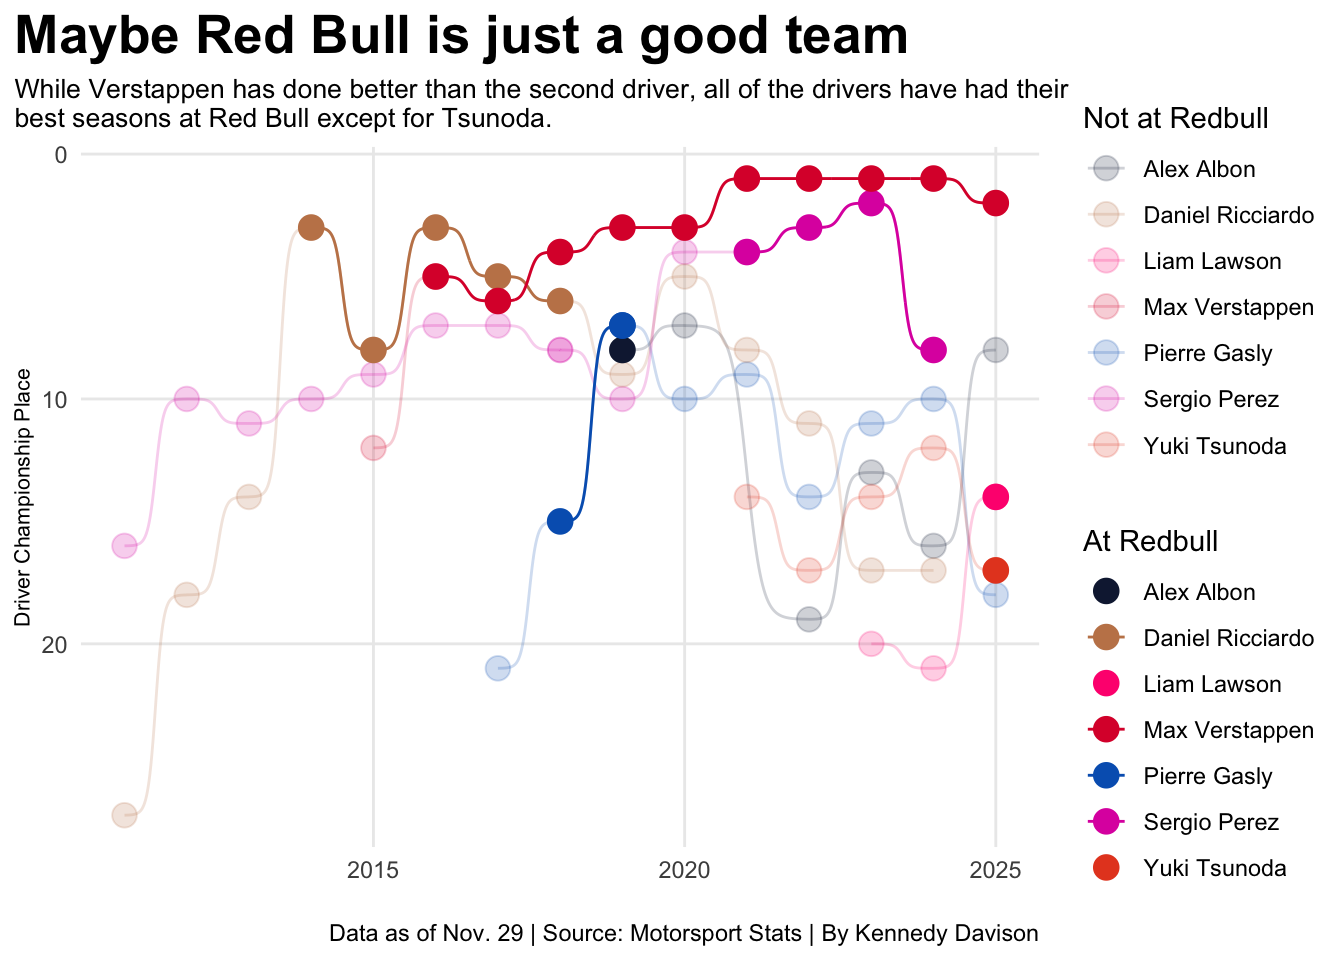
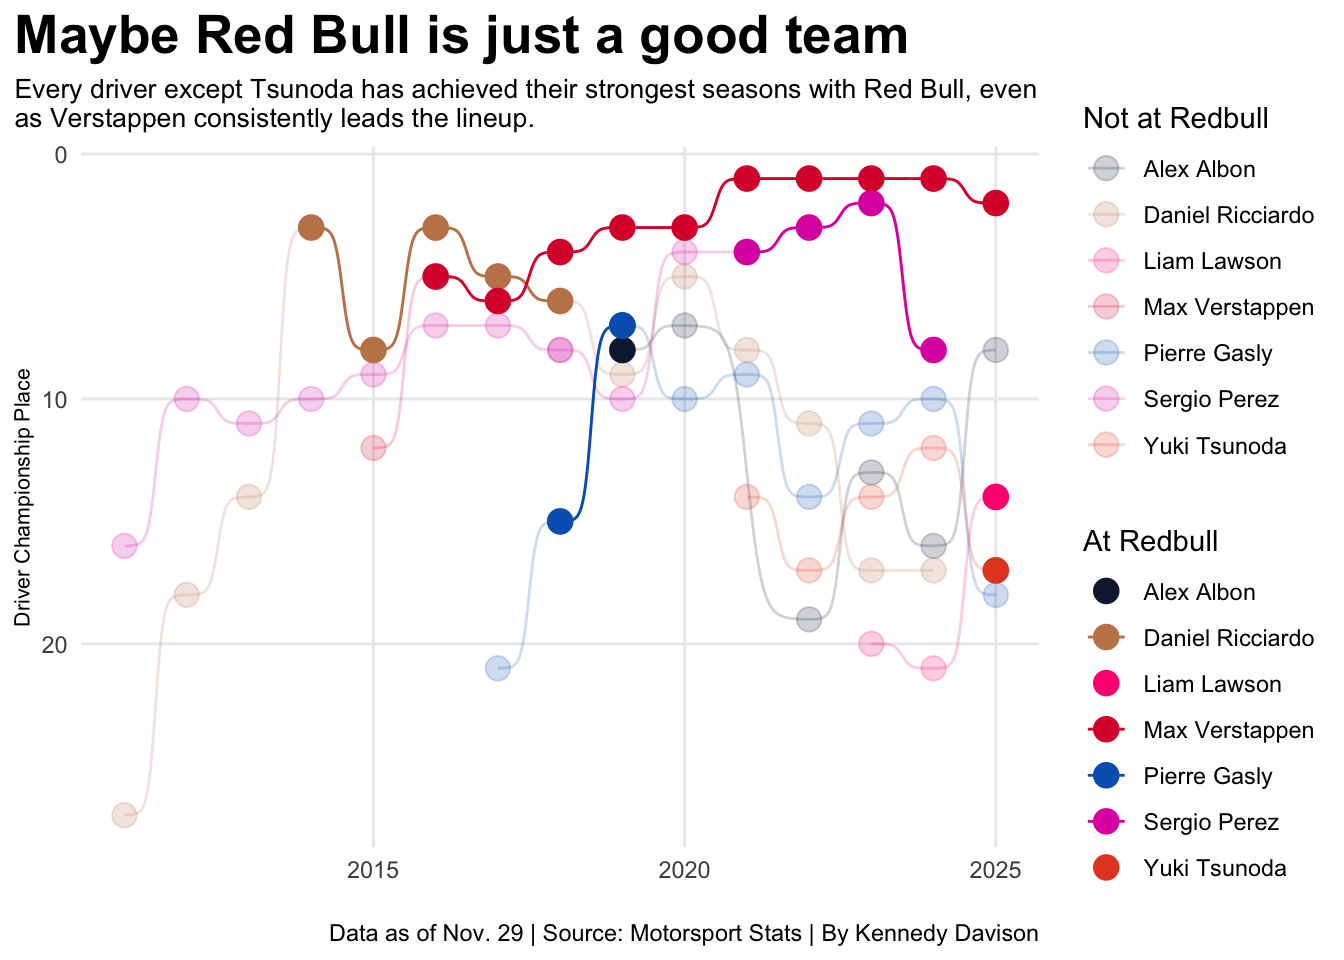
blog

Changed region(s): [[0.0, 0.0625, 0.7812, 0.1562]]

diff --git a/posts/red-bull-curse/index.html b/posts/red-bull-curse/index.html
@@ -426,7 +426,7 @@ pre > code.sourceCode > span > a:first-child::before { text-decoration: underlin
 <span id="cb3-66"><a href="#cb3-66" aria-hidden="true" tabindex="-1"></a>    <span class="at">x=</span><span class="st">""</span>, </span>
 <span id="cb3-67"><a href="#cb3-67" aria-hidden="true" tabindex="-1"></a>    <span class="at">y=</span><span class="st">"Driver Championship Place"</span>, </span>
 <span id="cb3-68"><a href="#cb3-68" aria-hidden="true" tabindex="-1"></a>    <span class="at">title=</span><span class="st">"Maybe Red Bull is just a good team"</span>, </span>
-<span id="cb3-69"><a href="#cb3-69" aria-hidden="true" tabindex="-1"></a>    <span class="at">subtitle=</span><span class="st">"While Verstappen has done better than the second driver, all of the drivers have had their </span><span class="sc">\n</span><span class="st">best seasons at Red Bull except for Tsunoda."</span>, </span>
+<span id="cb3-69"><a href="#cb3-69" aria-hidden="true" tabindex="-1"></a>    <span class="at">subtitle=</span><span class="st">"Every driver except Tsunoda has achieved their strongest seasons with Red Bull, even </span><span class="sc">\n</span><span class="st">as Verstappen consistently leads the lineup."</span>, </span>
 <span id="cb3-70"><a href="#cb3-70" aria-hidden="true" tabindex="-1"></a>    <span class="at">caption=</span><span class="st">"Data as of Nov. 29 | Source: Motorsport Stats | By Kennedy Davison"</span></span>
 <span id="cb3-71"><a href="#cb3-71" aria-hidden="true" tabindex="-1"></a>    ) <span class="sc">+</span></span>
 <span id="cb3-72"><a href="#cb3-72" aria-hidden="true" tabindex="-1"></a>  <span class="fu">theme_minimal</span>() <span class="sc">+</span> </span>

diff --git a/index.html b/index.html
@@ -214,7 +214,7 @@ window.Quarto = {
 
 <div class="quarto-listing quarto-listing-container-default" id="listing-listing">
 <div class="list quarto-listing-default">
-<div class="quarto-post image-right" data-index="0" data-categories="Zm9ybXVsYW9uZSUyQ3JlZGJ1bGwlMkNtb3RvcnNwb3J0cw==" data-listing-date-sort="1764914400000" data-listing-file-modified-sort="1764824506673" data-listing-date-modified-sort="NaN" data-listing-reading-time-sort="6" data-listing-word-count-sort="1010">
+<div class="quarto-post image-right" data-index="0" data-categories="Zm9ybXVsYW9uZSUyQ3JlZGJ1bGwlMkNtb3RvcnNwb3J0cw==" data-listing-date-sort="1764914400000" data-listing-file-modified-sort="1764825946748" data-listing-date-modified-sort="NaN" data-listing-reading-time-sort="6" data-listing-word-count-sort="1005">
 <div class="thumbnail"><a href="./posts/red-bull-curse/index.html" class="no-external">
 
 <img loading="lazy" src="./posts/red-bull-curse/image.png" class="thumbnail-image">
